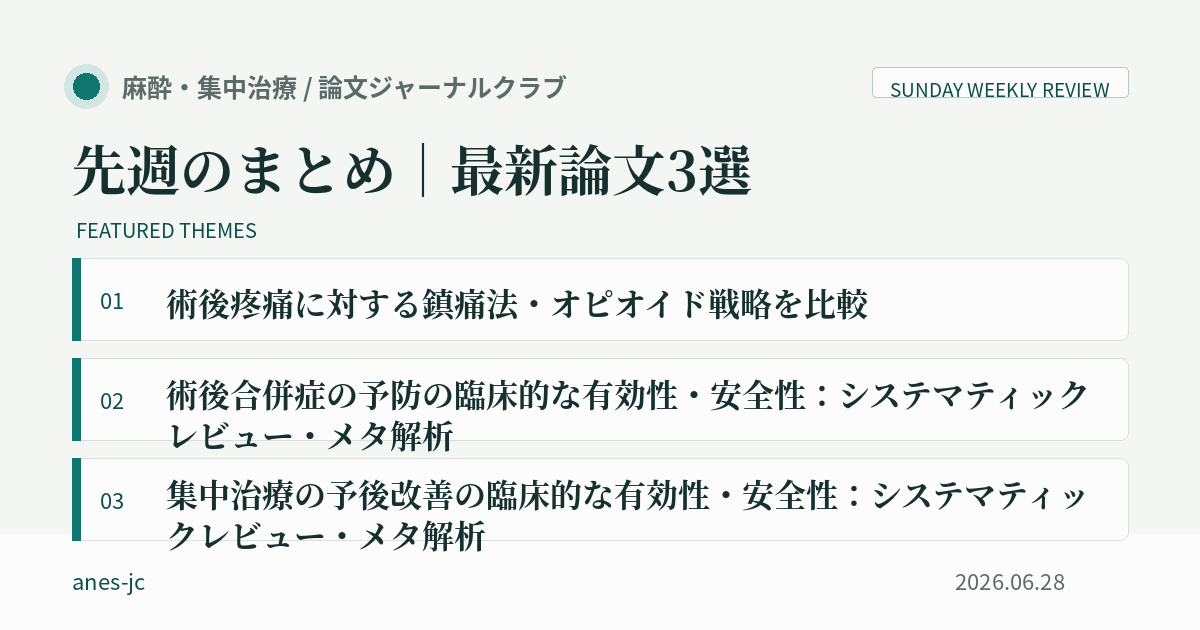
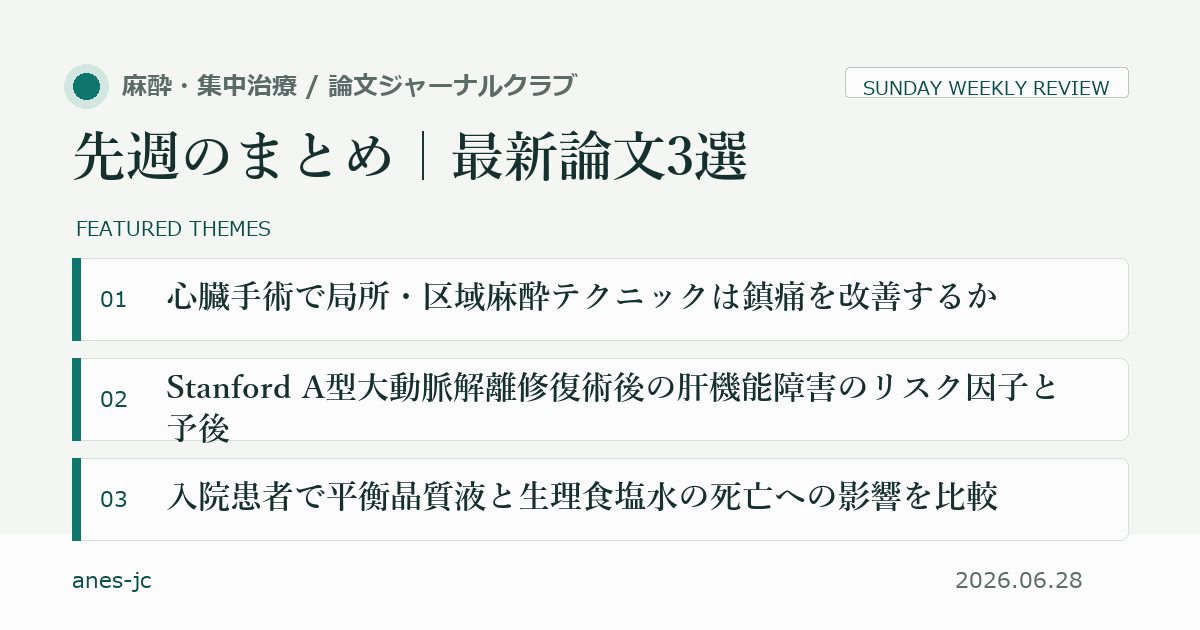
Fix Sunday latest paper summaries

diff --git a/articles/latest-papers-2026-06-28.html b/articles/latest-papers-2026-06-28.html
@@ -36,7 +36,7 @@
 <title>先週のまとめ｜最新論文3選 | anes-jc</title>
 <link rel="icon" type="image/svg+xml" href="/favicon.svg">
 <link rel="preconnect" href="https://fonts.googleapis.com"><link rel="preconnect" href="https://fonts.gstatic.com" crossorigin><link href="https://fonts.googleapis.com/css2?family=JetBrains+Mono:wght@400;500;700&family=Noto+Sans+JP:wght@400;500;700&family=Noto+Serif+JP:wght@500;600;700&display=swap" rel="stylesheet">
-<style>:root{--paper:#f4f6f4;--paper-2:#fbfcfb;--ink:#15302d;--ink-soft:#2c4541;--teal:#0f766e;--teal-deep:#0b4f4a;--muted:#5c6b68;--line:#d9e0dc;--line-strong:#bcc8c3}*{box-sizing:border-box;margin:0;padding:0}html{scroll-behavior:smooth}body{background:var(--paper);color:var(--ink);font-family:"Noto Sans JP",sans-serif;line-height:1.9;-webkit-font-smoothing:antialiased}.wrap{max-width:760px;margin:0 auto;padding:0 24px}a{color:var(--teal-deep)}header.bar{border-bottom:1px solid var(--line);background:rgba(244,246,244,.86);backdrop-filter:blur(8px);position:sticky;top:0;z-index:50}.bar-in{max-width:760px;margin:0 auto;padding:0 24px;display:flex;align-items:center;justify-content:space-between;height:56px}.brand{display:flex;align-items:center;gap:10px;font-weight:700;font-size:15px;color:var(--ink);text-decoration:none}.brand .dot{width:8px;height:8px;border-radius:50%;background:var(--teal);box-shadow:0 0 0 4px rgba(15,118,110,.15)}.bar-actions{display:flex;align-items:center;gap:14px}.back{font-size:13px;color:var(--muted);text-decoration:none}.foot-x{font-family:"JetBrains Mono",monospace;font-size:12px;color:var(--teal-deep);text-decoration:none;border:1px solid var(--line-strong);background:var(--paper-2);border-radius:2px;padding:5px 10px;white-space:nowrap}.foot-x:hover{background:var(--teal);color:#fff;border-color:var(--teal)}.ahead{padding:48px 0 30px;border-bottom:1px solid var(--line)}.kicker{font-family:"JetBrains Mono",monospace;letter-spacing:.06em;color:var(--teal-deep);display:flex;gap:8px;flex-wrap:wrap;margin-bottom:20px;align-items:center}.pill{font-size:12px;font-weight:500;border:1px solid var(--line-strong);border-radius:3px;padding:5px 12px;text-decoration:none;color:var(--teal-deep)}.pill.cls{background:var(--ink);color:#fff;border-color:var(--ink)}h1{font-family:"Noto Serif JP",serif;font-weight:700;font-size:clamp(28px,5vw,40px);line-height:1.35;letter-spacing:.01em}.title-tail{white-space:nowrap}.cite{margin-top:22px;font-size:13px;color:var(--muted);font-family:"JetBrains Mono",monospace;line-height:1.7;border-left:2px solid var(--teal);padding-left:14px}.sec{padding:38px 0;border-bottom:1px solid var(--line)}.sechd{margin-bottom:18px}.sechd h2{font-family:"Noto Serif JP",serif;font-size:22px;font-weight:600;line-height:1.4}.site-list{padding:0;list-style:none}.site-list li{padding:12px 0;border-bottom:1px solid var(--line);display:flex;justify-content:space-between;gap:12px}.site-list span,.meta{color:var(--muted);font-family:"JetBrains Mono",monospace;font-size:12px;white-space:nowrap}.paper-card{padding:26px 28px;border:1px solid var(--line);border-radius:4px;margin:18px 0;background:var(--paper-2)}.paper-card h2{font-family:"Noto Serif JP",serif;font-size:22px;line-height:1.4;margin:0 0 8px;color:var(--ink)}.paper-card h3{font-size:15px;line-height:1.7;margin:14px 0 5px;font-weight:500;color:var(--ink-soft)}.design{display:inline-block;font-family:"JetBrains Mono",monospace;font-size:11px;border:1px solid var(--line-strong);border-radius:3px;padding:3px 9px;margin:4px 0 12px;color:var(--teal-deep)}.summary{font-size:14px;line-height:1.8;color:var(--ink-soft);background:#fff;border-left:2px solid var(--teal);padding:12px 14px;margin:4px 0 16px}.summary span{display:block;font-size:11px;font-family:"JetBrains Mono",monospace;font-weight:700;color:var(--teal-deep);margin-bottom:4px}.source{display:inline-block;margin-top:10px;font-family:"JetBrains Mono",monospace;font-size:12px;font-weight:700;text-decoration:none;border:1px solid var(--line-strong);padding:6px 12px;border-radius:2px}.source:hover{background:var(--teal);color:#fff;border-color:var(--teal)}footer{border-top:1px solid var(--line);padding:36px 0 60px;margin-top:24px}.disc{font-size:12px;color:var(--muted);line-height:1.9}.foot-x{display:inline-block;margin-top:14px;padding:7px 12px}@media(max-width:560px){.bar-in{height:54px;padding:0 18px;gap:12px}.brand{min-width:0;gap:8px;font-size:12px;line-height:1.2;white-space:nowrap}.back{font-size:12px;white-space:nowrap}.wrap{padding:0 18px}h1 .title-part{display:block}.title-sep{display:none}.paper-card{padding:20px}.site-list li{display:block}.site-list span{display:block;margin-top:4px}}</style>
+<style>:root{--paper:#f4f6f4;--paper-2:#fbfcfb;--ink:#15302d;--ink-soft:#2c4541;--teal:#0f766e;--teal-deep:#0b4f4a;--muted:#5c6b68;--line:#d9e0dc;--line-strong:#bcc8c3}*{box-sizing:border-box;margin:0;padding:0}html{scroll-behavior:smooth}body{background:var(--paper);color:var(--ink);font-family:"Noto Sans JP",sans-serif;line-height:1.9;-webkit-font-smoothing:antialiased}.wrap{max-width:760px;margin:0 auto;padding:0 24px}a{color:var(--teal-deep)}header.bar{border-bottom:1px solid var(--line);background:rgba(244,246,244,.86);backdrop-filter:blur(8px);position:sticky;top:0;z-index:50}.bar-in{max-width:760px;margin:0 auto;padding:0 24px;display:flex;align-items:center;justify-content:space-between;height:56px}.brand{display:flex;align-items:center;gap:10px;font-weight:700;font-size:15px;color:var(--ink);text-decoration:none}.brand .dot{width:8px;height:8px;border-radius:50%;background:var(--teal);box-shadow:0 0 0 4px rgba(15,118,110,.15)}.bar-actions{display:flex;align-items:center;gap:14px}.back{font-size:13px;color:var(--muted);text-decoration:none}.foot-x{font-family:"JetBrains Mono",monospace;font-size:12px;color:var(--teal-deep);text-decoration:none;border:1px solid var(--line-strong);background:var(--paper-2);border-radius:2px;padding:5px 10px;white-space:nowrap}.foot-x:hover{background:var(--teal);color:#fff;border-color:var(--teal)}.ahead{padding:48px 0 30px;border-bottom:1px solid var(--line)}.kicker{font-family:"JetBrains Mono",monospace;letter-spacing:.06em;color:var(--teal-deep);display:flex;gap:8px;flex-wrap:wrap;margin-bottom:20px;align-items:center}.pill{font-size:12px;font-weight:500;border:1px solid var(--line-strong);border-radius:3px;padding:5px 12px;text-decoration:none;color:var(--teal-deep)}.pill.cls{background:var(--ink);color:#fff;border-color:var(--ink)}h1{font-family:"Noto Serif JP",serif;font-weight:700;font-size:clamp(28px,5vw,40px);line-height:1.35;letter-spacing:.01em}.title-tail{white-space:nowrap}.cite{margin-top:22px;font-size:13px;color:var(--muted);font-family:"JetBrains Mono",monospace;line-height:1.7;border-left:2px solid var(--teal);padding-left:14px}.sec{padding:38px 0;border-bottom:1px solid var(--line)}.sechd{margin-bottom:18px}.sechd h2{font-family:"Noto Serif JP",serif;font-size:22px;font-weight:600;line-height:1.4}.site-list{padding:0;list-style:none}.site-list li{padding:12px 0;border-bottom:1px solid var(--line);display:flex;justify-content:space-between;gap:12px}.site-list span,.meta,.source-id{color:var(--muted);font-family:"JetBrains Mono",monospace;font-size:12px}.site-list span,.meta{white-space:nowrap}.source-id{overflow-wrap:anywhere;margin-top:2px}.paper-card{padding:26px 28px;border:1px solid var(--line);border-radius:4px;margin:18px 0;background:var(--paper-2)}.paper-card h2{font-family:"Noto Serif JP",serif;font-size:22px;line-height:1.4;margin:0 0 8px;color:var(--ink)}.paper-card h3{font-size:15px;line-height:1.7;margin:14px 0 5px;font-weight:500;color:var(--ink-soft)}.design{display:inline-block;font-family:"JetBrains Mono",monospace;font-size:11px;border:1px solid var(--line-strong);border-radius:3px;padding:3px 9px;margin:4px 0 12px;color:var(--teal-deep)}.summary{font-size:14px;line-height:1.8;color:var(--ink-soft);background:#fff;border-left:2px solid var(--teal);padding:12px 14px;margin:4px 0 16px}.summary span{display:block;font-size:11px;font-family:"JetBrains Mono",monospace;font-weight:700;color:var(--teal-deep);margin-bottom:4px}.source{display:inline-block;margin-top:10px;font-family:"JetBrains Mono",monospace;font-size:12px;font-weight:700;text-decoration:none;border:1px solid var(--line-strong);padding:6px 12px;border-radius:2px}.source:hover{background:var(--teal);color:#fff;border-color:var(--teal)}footer{border-top:1px solid var(--line);padding:36px 0 60px;margin-top:24px}.disc{font-size:12px;color:var(--muted);line-height:1.9}.foot-x{display:inline-block;margin-top:14px;padding:7px 12px}@media(max-width:560px){.bar-in{height:54px;padding:0 18px;gap:12px}.brand{min-width:0;gap:8px;font-size:12px;line-height:1.2;white-space:nowrap}.back{font-size:12px;white-space:nowrap}.wrap{padding:0 18px}h1 .title-part{display:block}.title-sep{display:none}.paper-card{padding:20px}.site-list li{display:block}.site-list span{display:block;margin-top:4px}}</style>
 <script src="../assets/analytics-config.js"></script>
 <script src="../assets/analytics.js" defer></script>
 </head><body><header class="bar"><div class="bar-in"><a class="brand" href="../index.html"><span class="dot"></span>麻酔・集中治療 / 論文ジャーナルクラブ</a><div class="bar-actions"><a class="back" href="../articles.html">← 記事一覧</a></div></div></header><div class="wrap">
@@ -47,25 +47,28 @@
     <li><a href="../articles/nsaid-aki-psm.html">術中NSAIDsはAKIを増やすか — 傾向スコアマッチングで読む観察研究</a><span>2026.06.24</span></li>
     <li><a href="../articles/shoulder-block-diaphragm.html">上神経幹 vs ESPB — 肩関節鏡手術での鎮痛と横隔神経麻痺</a><span>2026.06.22</span></li></ul></section>
 <section class="sec"><div class="sechd"><h2>最新論文3選</h2></div><article class="paper-card">
-      <h2>術後疼痛に対する鎮痛法・オピオイド戦略を比較</h2>
-      <p class="design">システマティックレビュー・メタ解析</p>
-      <p class="summary"><span>抄録の日本語要約</span>ICU患者を対象に、鎮痛法やオピオイド戦略が疼痛・副作用に与える影響を検討しています。複数研究を統合し、効果の方向性と不確実性を整理して読む論文です。</p>
+      <h2>心臓手術で局所・区域麻酔テクニックは鎮痛を改善するか</h2>
+      <p class="design">システマティックレビュー・ネットワークメタ解析</p>
+      <p class="summary"><span>日本語メモ</span>心臓手術における局所・区域麻酔テクニックの鎮痛効果を、無作為化試験のシステマティックレビュー・ネットワークメタ解析で比較しています。</p>
       <h3>Analgesic efficacy of locoregional anesthesia techniques in cardiac surgery: a systematic review and network meta-analysis of randomized trials.</h3>
       <p class="meta"> / 2026-06-25</p>
+      <p class="source-id">DOI: 10.1136/rapm-2026-107773</p>
       <a class="source" href="https://doi.org/10.1136%2Frapm-2026-107773">抄録・原文を見る →</a>
     </article><article class="paper-card">
-      <h2>術後合併症の予防の臨床的な有効性・安全性：システマティックレビュー・メタ解析</h2>
+      <h2>Stanford A型大動脈解離修復術後の肝機能障害のリスク因子と予後</h2>
       <p class="design">システマティックレビュー・メタ解析</p>
-      <p class="summary"><span>抄録の日本語要約</span>麻酔・集中治療領域の患者・研究対象を対象に、術後合併症の予防の臨床的な有効性・安全性を検討しています。複数研究を統合し、効果の方向性と不確実性を整理して読む論文です。</p>
-      <h3>Risk factors and prognosis of postoperative hepatic dysfunction after Stanford type A aortic dissection repair: a systematic review and meta-analysis. </h3>
+      <p class="summary"><span>日本語メモ</span>Stanford A型大動脈解離修復術後の肝機能障害について、リスク因子と予後をシステマティックレビュー・メタ解析で整理した論文です。</p>
+      <h3>Risk factors and prognosis of postoperative hepatic dysfunction after Stanford type A aortic dissection repair: a systematic review and meta-analysis.</h3>
       <p class="meta"> / 2026-06-26</p>
+      <p class="source-id">DOI: 10.1186/s13019-026-04486-y</p>
       <a class="source" href="https://doi.org/10.1186%2Fs13019-026-04486-y">抄録・原文を見る →</a>
     </article><article class="paper-card">
-      <h2>集中治療の予後改善の臨床的な有効性・安全性：システマティックレビュー・メタ解析</h2>
-      <p class="design">システマティックレビュー・メタ解析</p>
-      <p class="summary"><span>抄録の日本語要約</span>麻酔・集中治療領域の患者・研究対象を対象に、集中治療の予後改善の臨床的な有効性・安全性を検討しています。複数研究を統合し、効果の方向性と不確実性を整理して読む論文です。</p>
-      <h3>Balanced crystalloids versus saline and mortality in hospitalized patients: a hierarchical Bayesian meta-analysis of cluster-randomized trials. </h3>
+      <h2>入院患者で平衡晶質液と生理食塩水の死亡への影響を比較</h2>
+      <p class="design">ベイズ階層メタ解析</p>
+      <p class="summary"><span>日本語メモ</span>入院患者における平衡晶質液と生理食塩水を、死亡をアウトカムとしてベイズ階層メタ解析で比較した論文です。</p>
+      <h3>Balanced crystalloids versus saline and mortality in hospitalized patients: a hierarchical Bayesian meta-analysis of cluster-randomized trials.</h3>
       <p class="meta"> / 2026-06-26</p>
+      <p class="source-id">DOI: 10.1016/j.jcrc.2026.155665</p>
       <a class="source" href="https://doi.org/10.1016%2Fj.jcrc.2026.155665">抄録・原文を見る →</a>
     </article></section>
 <section class="sec"><div class="sechd"><h2>このページについて</h2></div><p>このページは、週次の定点観測として毎週日曜に自動生成・自動公開しています。</p></section>